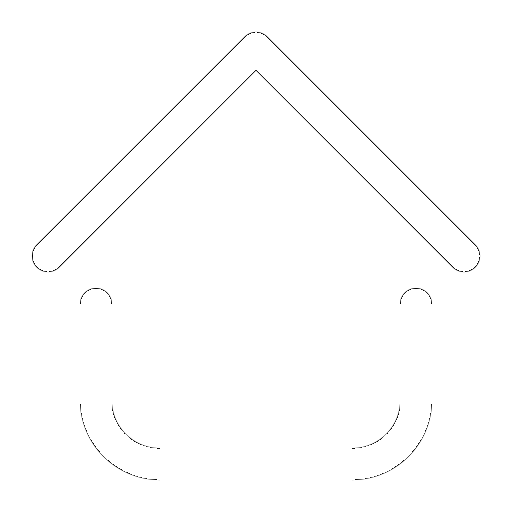
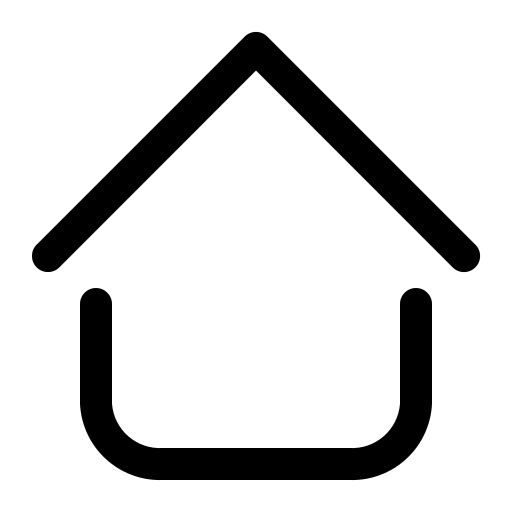
commit

Changed region(s): [[0.1562, 0.5625, 0.8438, 0.9375], [0.0625, 0.0625, 0.9375, 0.5312]]

diff --git a/src/app/page.tsx b/src/app/page.tsx
@@ -6,11 +6,9 @@ import homeimage from "../app/home.png";
 import Image from 'next/image';
 
 export default function Home() {
-const mainText = "Portfolio"
-    const textDesc = "Hi, my name is Odin im a 17 year old developer. I make games, 3d models, websites and animations. Here is some of my work.  "
   return (
-    <main className="text-white">
-      <header className="fixed top-0 w-screen bg-black">
+    <main className="text-black">
+      <header className="fixed top-0 w-screen bg-{#ededed} shadow-sm">
       <div className="flex gap-5 pt-5 md:flex-row ">
       <Link href='Historypage' className="justify-center items-center text-[2vw] font-bold md:pr-10 md:pl-10 md:flex md:justify-center md:items-center md:text-[1vw] md:font-bold">History</Link>
       <Link href='socialspage' className="justify-center items-center text-[2vw] font-bold md:pr-10 md:pl-10 md:flex md:justify-center md:items-center md:text-[1vw] md:font-bold">Socials</Link>
@@ -19,24 +17,24 @@ const mainText = "Portfolio"
         <Image 
           src={homeimage} 
           alt="Home"
-          className="md:w-[2vw] md:h-[2vw]"
+          className=" w-[2vw] h-[2vw] md:w-[2vw] md:h-[2vw]"
         />
       </Link>
-      
+
       </div>
       </header>
-
-      <h1 className=" h-[45vh] flex justify-center items-center text-[15vw] font-bold md:h-[45vh] md:flex md:justify-center md:items-center md:text-[15vw] md:font-bold ">{mainText}</h1>
-      <p className="h-[10vh] flex justify-center pr-20 pl-20 items-center text-[5vw] font-bold md:h-[20vh] md:flex md:justify-center md:pr-80 md:pl-80 md:items-center md:text-[2vw] md:font-bold">{textDesc} </p>
+      <p className="h-[10vh] flex justify-center pr-20 pl-20 items-center text-[5vw] font-bold md:h-[20vh] md:flex md:justify-center md:pr-80 md:pl-80 md:items-center md:text-[1vw] md:font-bold">Hi, my name is </p>
+      <h1 className=" flex justify-center items-center text-[10vw] font-bold md:h-[10vh] md:flex md:justify-center md:items-center md:text-[8vw] md:font-bold ">Odin</h1>
+      <p className="h-[10vh] flex justify-center pr-20 pl-20 items-center text-[5vw] font-bold md:h-[20vh] md:flex md:justify-center md:pr-80 md:pl-80 md:items-center md:text-[2vw] md:font-bold">Im a</p>
 
       
-      <h1 className="h-[50vh] flex justify-center items-center text-[10vw] pt-[50vh] font-bold">Projects</h1>
+      <h1 className="h-[50vh] flex justify-center items-center text-[5vw] pt-[50vh] font-bold">Projects</h1>
       <div className="w-screen flex justify-center">
-      <button onClick={() => window.location.href = 'page2'} className=" justify-center items-center text-[5vw] pt-[15vh] font-bold md:pr-10 md:pl-10 md:flex md:justify-center md:items-center md:text-[2vw] md:pt-[20vh] md:font-bold">
+      <button onClick={() => window.location.href = 'page2'} className=" justify-center items-center text-[5vw] pt-[15vh] font-bold md:pr-10 md:pl-10 md:flex md:justify-center md:items-center md:text-[2vw] md:pt-[10vh] md:font-bold">
         3D models and renders</button>
-        <button onClick={() => window.location.href = 'page3'} className=" justify-center items-center text-[5vw] pt-[15vh] font-bold md:pr-10 md:pl-10 md:flex md:justify-center md:items-center md:text-[2vw] md:pt-[20vh] md:font-bold">
+        <button onClick={() => window.location.href = 'page3'} className=" justify-center items-center text-[5vw] pt-[15vh] font-bold md:pr-10 md:pl-10 md:flex md:justify-center md:items-center md:text-[2vw] md:pt-[10vh] md:font-bold">
         Games</button>
-      <button className=" flex justify-center items-center text-[5vw] pt-[15vh] font-bold md:pr-10 md:pl-10 md:flex md:justify-center md:items-center md:text-[2vw] md:pt-[20vh] md:font-bold">Websites and diverse programs</button>
+      <button className=" flex justify-center items-center text-[5vw] pt-[15vh] font-bold md:pr-10 md:pl-10 md:flex md:justify-center md:items-center md:text-[2vw] md:pt-[10vh] md:font-bold">Websites and diverse programs</button>
       </div>
 
       

diff --git a/src/app/(pages)/page2/page.tsx b/src/app/(pages)/page2/page.tsx
@@ -30,8 +30,8 @@ export default function Home() {
 const mainText = "Blender"
     const textDesc = "Blender is a program for designing 3d models and renders. I make all of my models and renders here. I take alot of inspiration from media I watch. Here is some of my work in this program."
   return (
-    <main className="text-white">
-      <header className="fixed top-0 w-screen bg-black">
+    <main className="text-black">
+      <header className="fixed top-0 w-screen bg-{#ededed} shadow-sm">
       <div className="flex gap-5 pt-5 md:flex-row ">
       <Link href='Historypage' className="justify-center items-center text-[2vw] font-bold md:pr-10 md:pl-10 md:flex md:justify-center md:items-center md:text-[1vw] md:font-bold">History</Link>
       <Link href='socialspage' className="justify-center items-center text-[2vw] font-bold md:pr-10 md:pl-10 md:flex md:justify-center md:items-center md:text-[1vw] md:font-bold">Socials</Link>

diff --git a/src/app/(pages)/page3/page.tsx b/src/app/(pages)/page3/page.tsx
@@ -22,8 +22,8 @@ export default function Home() {
 const mainText = "Games"
     const textDesc = "Unity is a program for designing and programming games, 3d models and renders. Here is some of my work in this program."
   return (
-    <main className="text-white">
-      <header className="fixed top-0 w-screen bg-black">
+    <main className="text-black">
+      <header className="fixed top-0 w-screen bg-{#ededed} shadow-sm">
       <div className="flex gap-5 pt-5 md:flex-row ">
       <Link href='Historypage' className="justify-center items-center text-[2vw] font-bold md:pr-10 md:pl-10 md:flex md:justify-center md:items-center md:text-[1vw] md:font-bold">History</Link>
       <Link href='socialspage' className="justify-center items-center text-[2vw] font-bold md:pr-10 md:pl-10 md:flex md:justify-center md:items-center md:text-[1vw] md:font-bold">Socials</Link>

diff --git a/src/app/(pages)/Historypage/page.tsx b/src/app/(pages)/Historypage/page.tsx
@@ -9,8 +9,8 @@ export default function Home() {
 const mainText = "History"
     const textDesc = "Here is a summary of what i've been doing within this branch in my life."
   return (
-    <main className="text-white">
-      <header className="fixed top-0 w-screen bg-black">
+    <main className="text-black">
+      <header className="fixed top-0 w-screen bg-{#ededed} shadow-sm">
       <div className="flex gap-5 pt-5 md:flex-row ">
       <Link href='Historypage' className="justify-center items-center text-[2vw] font-bold md:pr-10 md:pl-10 md:flex md:justify-center md:items-center md:text-[1vw] md:font-bold">History</Link>
       <Link href='socialspage' className="justify-center items-center text-[2vw] font-bold md:pr-10 md:pl-10 md:flex md:justify-center md:items-center md:text-[1vw] md:font-bold">Socials</Link>

diff --git a/src/app/(pages)/page4/page.tsx b/src/app/(pages)/page4/page.tsx
@@ -9,8 +9,8 @@ export default function Home() {
 const mainText = "Websites and others"
     const textDesc = "Here's some of my websites and other projects."
   return (
-    <main className="text-white">
-      <header className="fixed top-0 w-screen bg-black">
+    <main className="text-black">
+      <header className="fixed top-0 w-screen bg-{black} shadow-sm">
       <div className="flex gap-5 pt-5 md:flex-row ">
       <Link href='Historypage' className="justify-center items-center text-[2vw] font-bold md:pr-10 md:pl-10 md:flex md:justify-center md:items-center md:text-[1vw] md:font-bold">History</Link>
       <Link href='socialspage' className="justify-center items-center text-[2vw] font-bold md:pr-10 md:pl-10 md:flex md:justify-center md:items-center md:text-[1vw] md:font-bold">Socials</Link>

diff --git a/src/app/(pages)/futureprojects/page.tsx b/src/app/(pages)/futureprojects/page.tsx
@@ -9,8 +9,8 @@ export default function Home() {
 const mainText = "Projects"
     const textDesc = "Here are some of my future projects"
   return (
-    <main className="text-white">
-      <header className="fixed top-0 w-screen bg-black">
+    <main className="text-black">
+      <header className="fixed top-0 w-screen bg-{#ededed} shadow-sm">
       <div className="flex gap-5 pt-5 md:flex-row ">
       <Link href='Historypage' className="justify-center items-center text-[2vw] font-bold md:pr-10 md:pl-10 md:flex md:justify-center md:items-center md:text-[1vw] md:font-bold">History</Link>
       <Link href='socialspage' className="justify-center items-center text-[2vw] font-bold md:pr-10 md:pl-10 md:flex md:justify-center md:items-center md:text-[1vw] md:font-bold">Socials</Link>

diff --git a/src/app/(pages)/socialspage/page.tsx b/src/app/(pages)/socialspage/page.tsx
@@ -9,8 +9,8 @@ export default function Home() {
 const mainText = "Socials"
     const textDesc = "Here are some of my socials"
   return (
-    <main className="text-white">
-      <header className="fixed top-0 w-screen bg-black">
+    <main className="text-black">
+      <header className="fixed top-0 w-screen bg-{#ededed} shadow-sm">
       <div className="flex gap-5 pt-5 md:flex-row ">
       <Link href='Historypage' className="justify-center items-center text-[2vw] font-bold md:pr-10 md:pl-10 md:flex md:justify-center md:items-center md:text-[1vw] md:font-bold">History</Link>
       <Link href='socialspage' className="justify-center items-center text-[2vw] font-bold md:pr-10 md:pl-10 md:flex md:justify-center md:items-center md:text-[1vw] md:font-bold">Socials</Link>

diff --git a/src/app/globals.css b/src/app/globals.css
@@ -3,15 +3,15 @@
 @tailwind utilities;
 
 :root {
-  --background: #000000;
+  --background: #ededed;
   --foreground: #171717;
     
 }
 
 @media (prefers-color-scheme: dark) {
   :root {
-    --background: #000000;
-    --foreground: #ededed;
+    --background: #ededed;
+    --foreground: #000000;
   }
 }
 
